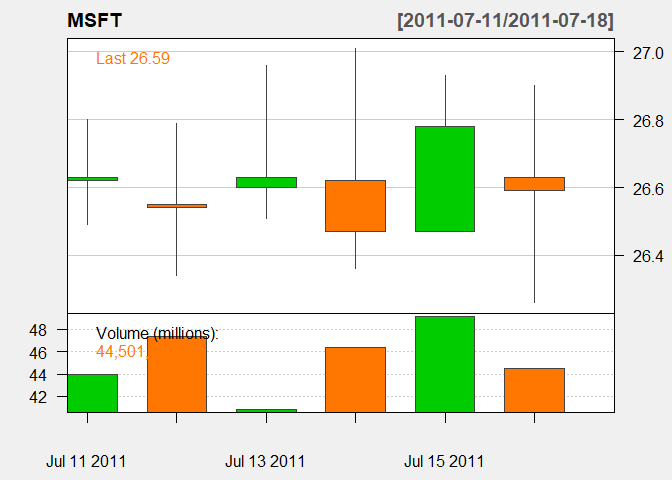
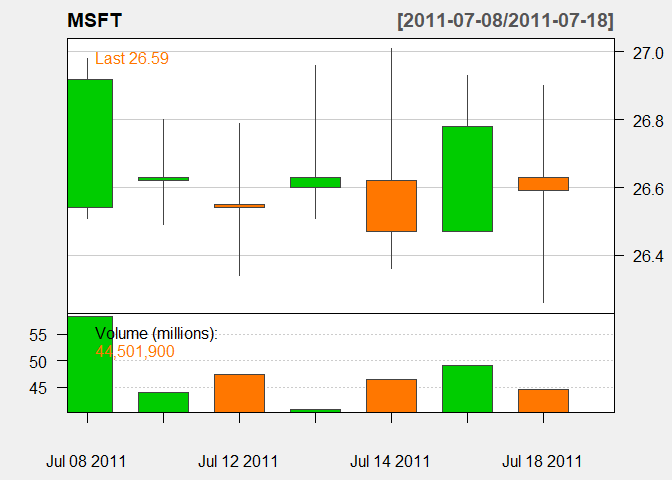
error fixed

diff --git a/README.md b/README.md
@@ -58,7 +58,7 @@ library(quantmod)
 getSymbols("MSFT", from = "2011-07-08" , to = "2011-07-19")
 ```
 
-We first do the charting:
+We first plot the candle chart first:
 
 ``` r
 candleChart(MSFT,theme='white')
@@ -74,15 +74,10 @@ doji(MSFT)
 ```
 
     ##             doji
+    ## 2011-07-08 FALSE
     ## 2011-07-11  TRUE
     ## 2011-07-12  TRUE
     ## 2011-07-13  TRUE
     ## 2011-07-14 FALSE
     ## 2011-07-15 FALSE
     ## 2011-07-18  TRUE
-
-<!-- We can plot it in the candle chart: -->
-<!-- ```{r} -->
-<!-- chartSeries(MSFT, theme='white') -->
-<!-- addTA(doji(MSFT),type='h',col='red',on='2') -->
-<!-- ``` -->
